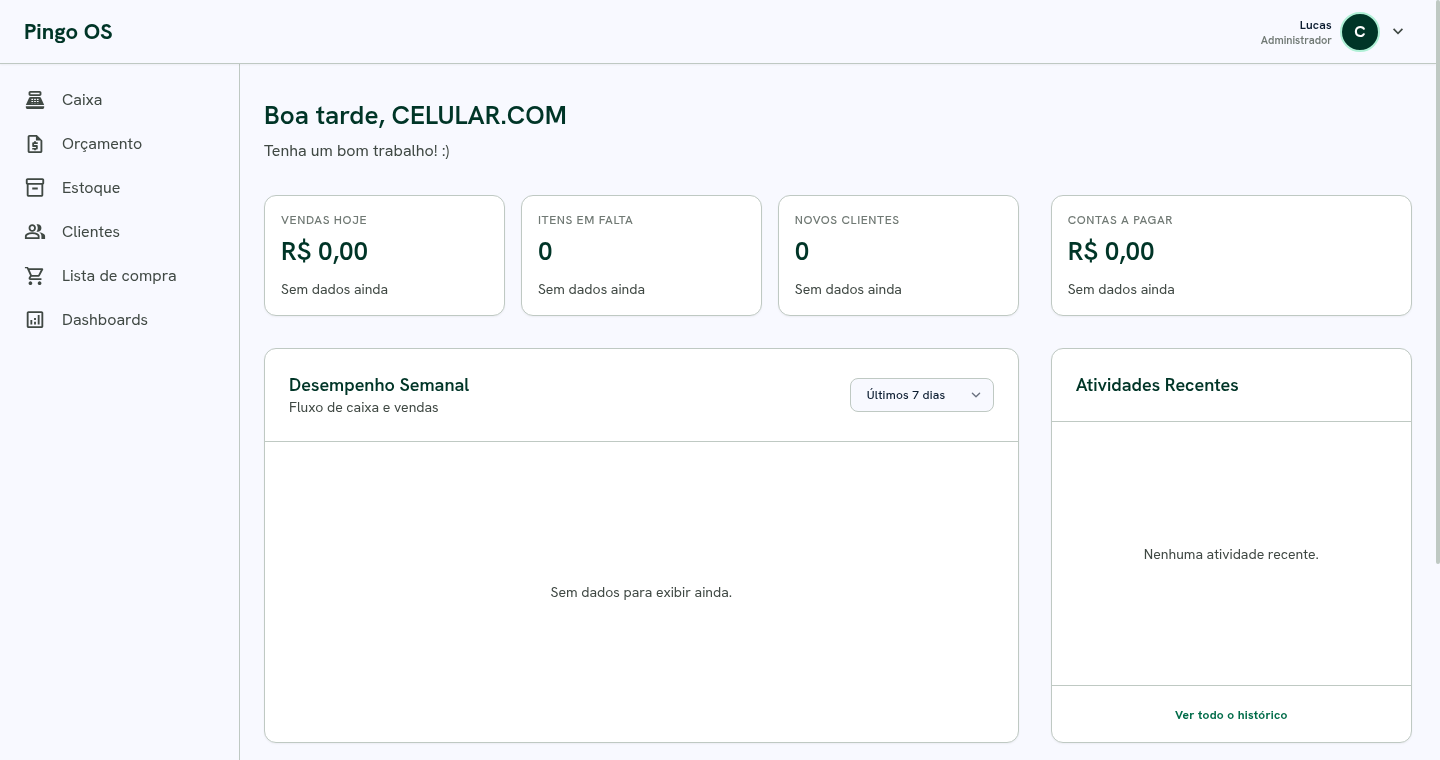
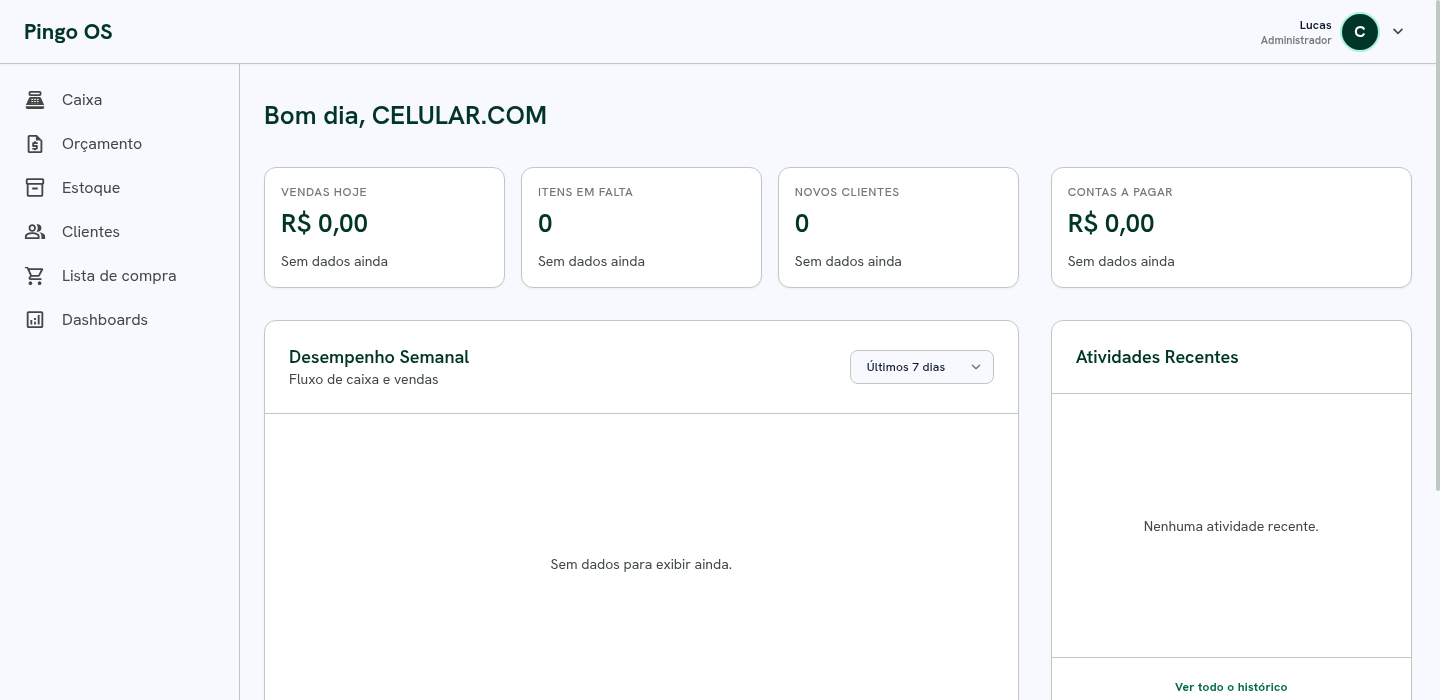
feat: restructure Caixa navigation to improve usability; replace link with expandable button for Vendas and Frente de caixa

diff --git a/CHANGES.md b/CHANGES.md
@@ -1,5 +1,24 @@
 # Registro de Alterações
 
+## [2026-08-07] Caixa vira grupo na lateral, com Frente de caixa e Vendas
+
+### Problema
+A tela de Vendas só era alcançável por um botão dentro da própria Frente de caixa, o que a fazia
+parecer um anexo do caixa em vez de uma tela própria. E "Caixa" na lateral levava direto para a
+frente de caixa, sem revelar que existia outra coisa ali dentro.
+
+### Arquivos Alterados
+
+| Arquivo | Alteração |
+|---|---|
+| `Views/Home/Index.cshtml` | "Caixa" deixou de ser link e virou botão de grupo: começa fechado e o clique revela **Frente de caixa** e **Vendas** indentados abaixo |
+| `Views/Caixa/Index.cshtml` | botão "Vendas" removido da barra de ferramentas |
+
+Sem seta de expandir, por escolha do autor — o próprio rótulo é o gatilho. O botão carrega
+`aria-expanded` para quem navega por leitor de tela saber que ali há conteúdo recolhido.
+
+---
+
 ## [2026-08-07] Estoque e Caixa no banco, com a venda baixando o estoque
 
 ### Problema
